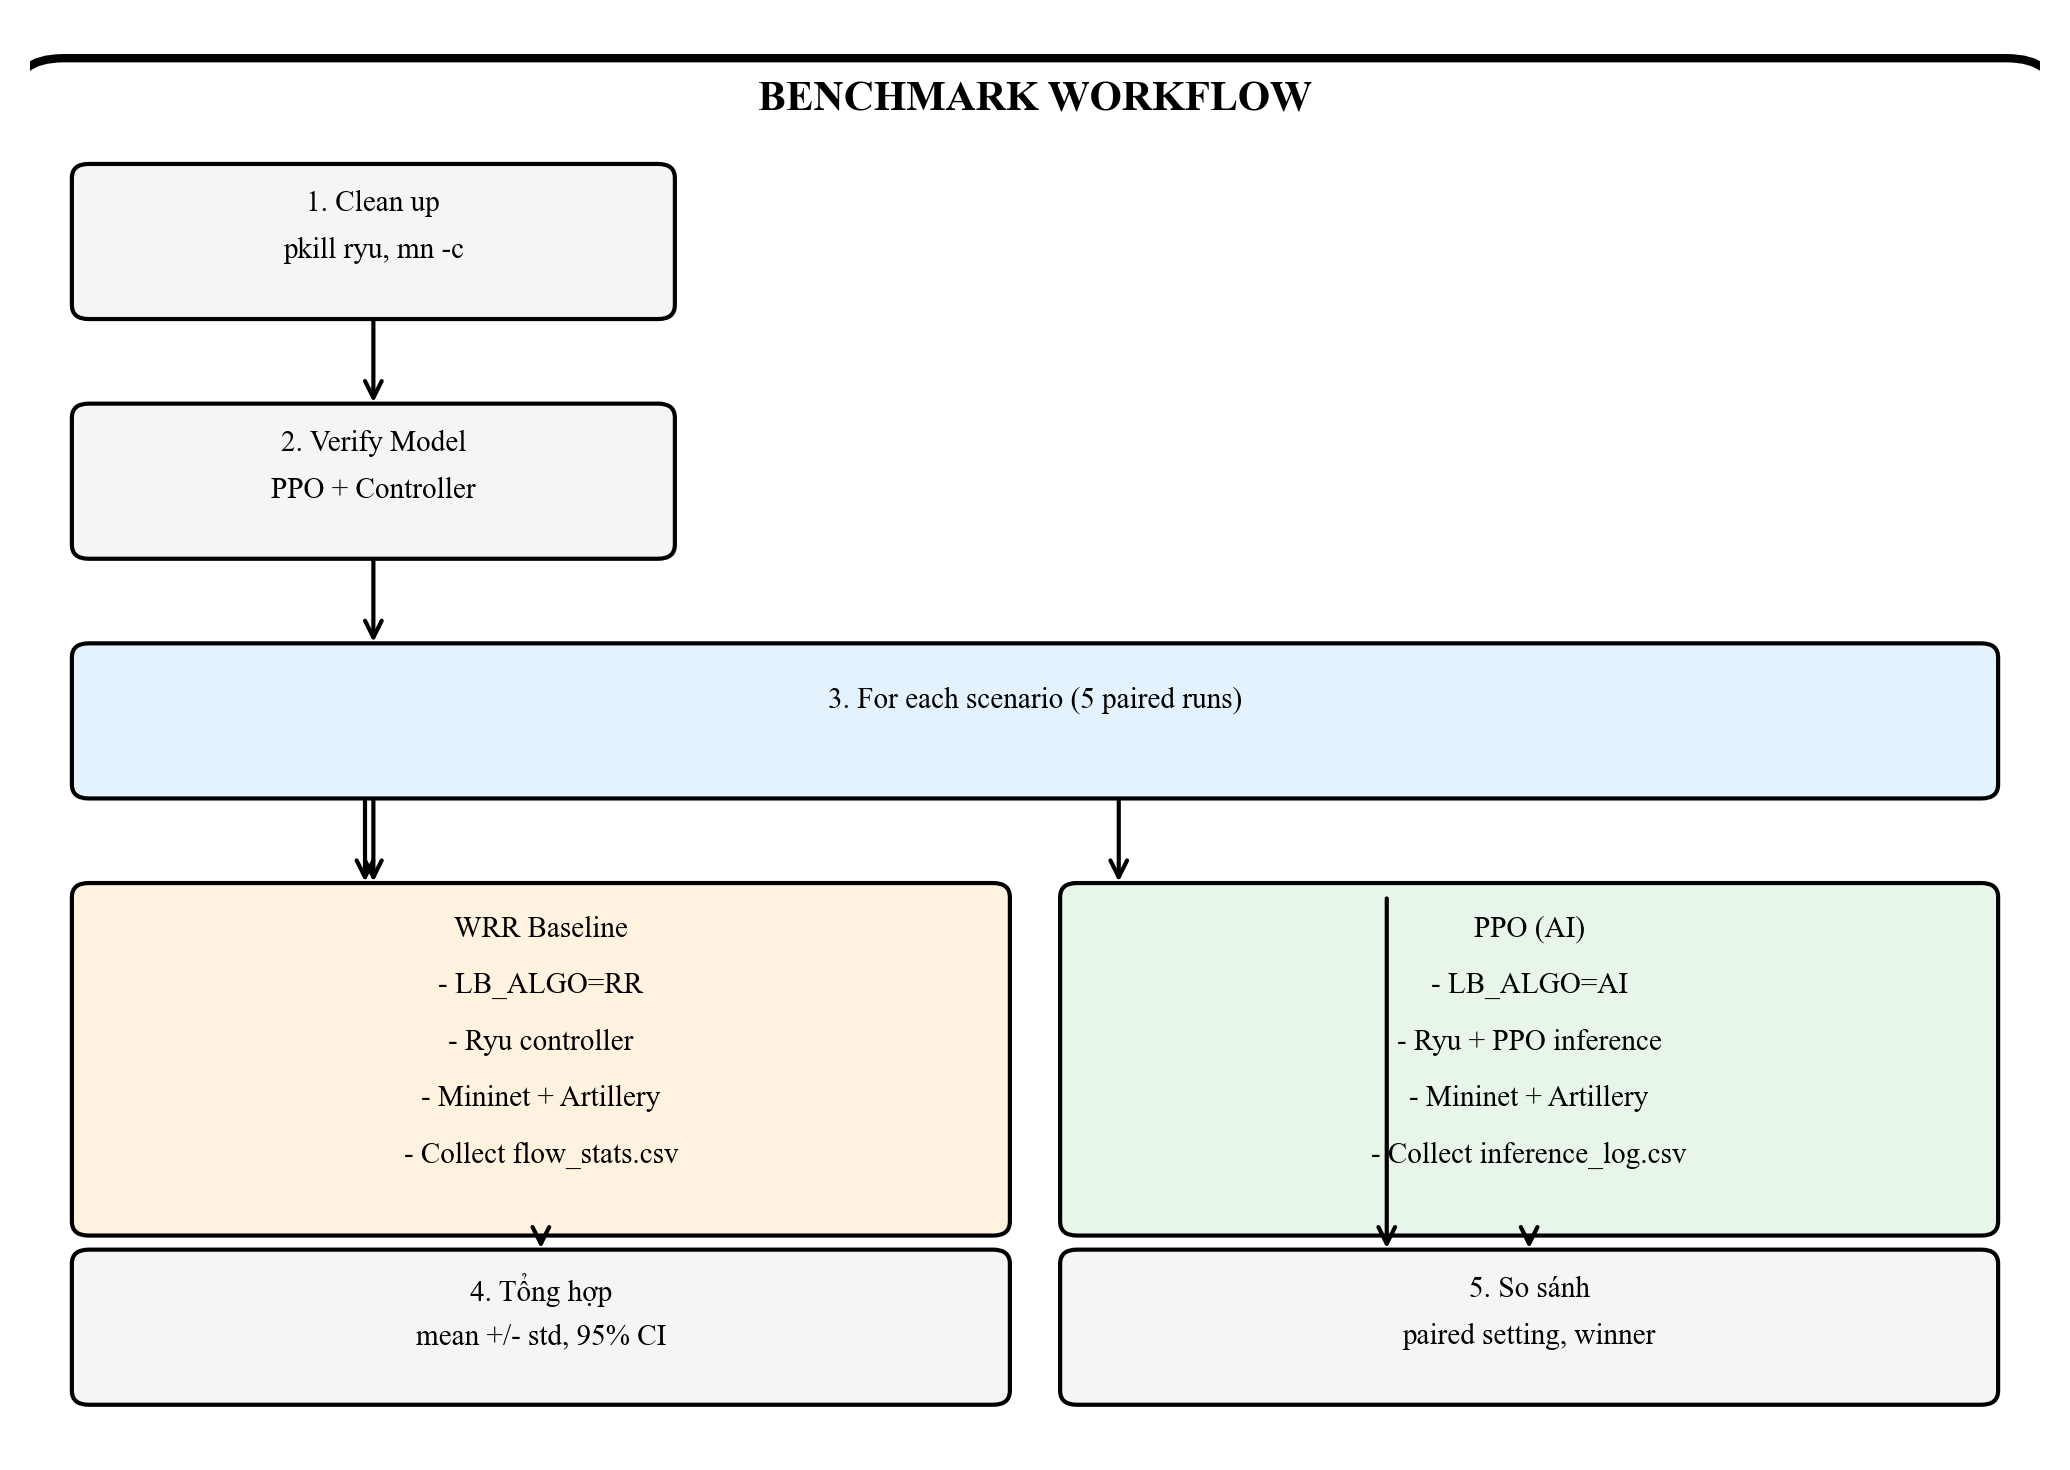
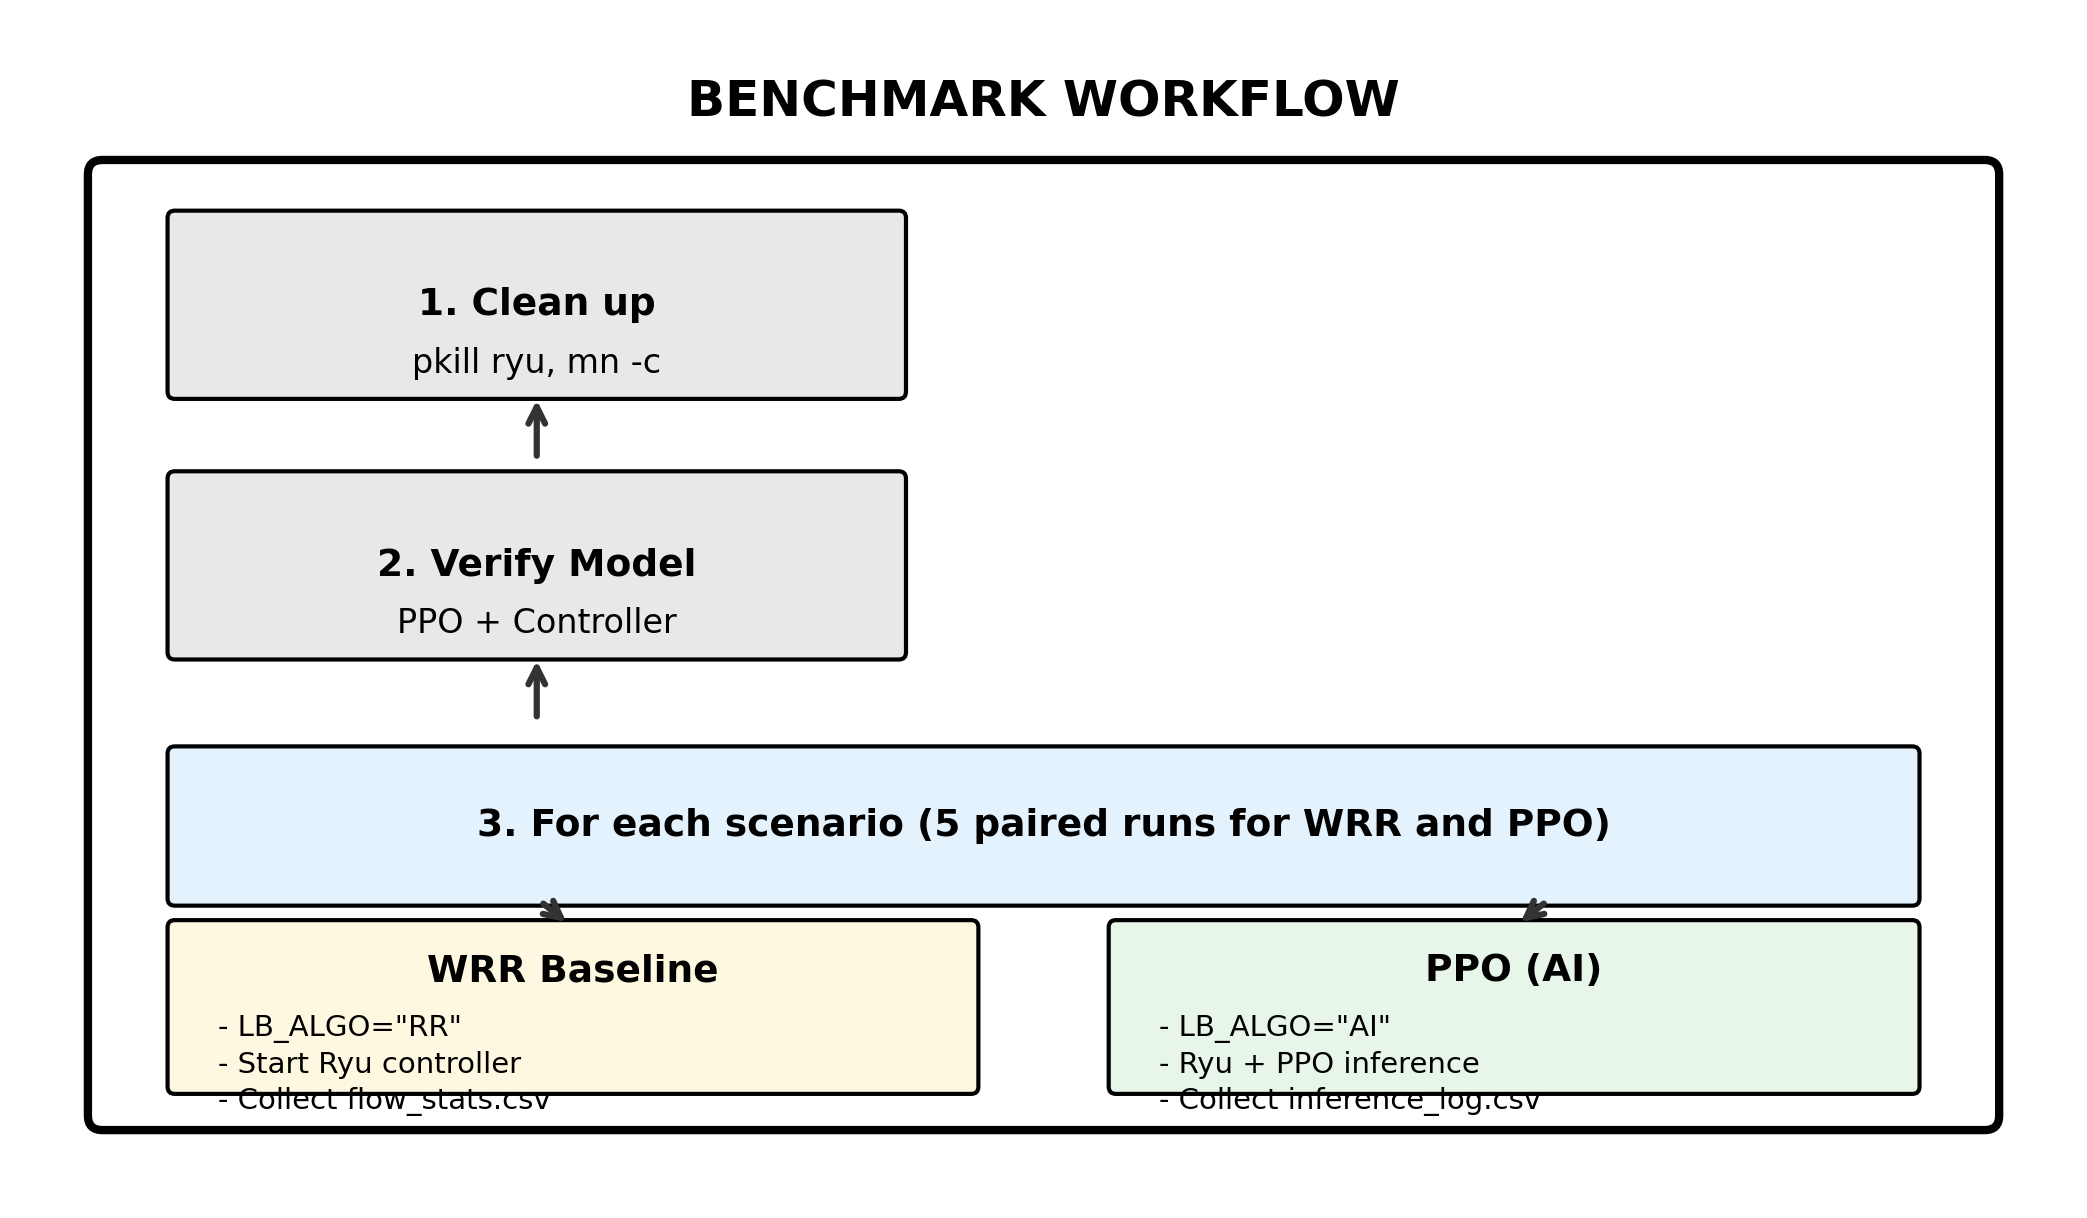
docs: v3 benchmark workflow - cleaner layout

Changed region(s): [[0.0, 0.0312, 0.9894, 0.9672]]

diff --git a/scripts/generate_benchmark_workflow.py b/scripts/generate_benchmark_workflow.py
@@ -1,5 +1,5 @@
 #!/usr/bin/env python3
-"""Generate benchmark workflow diagram in IEEE standard format - FIXED VERSION."""
+"""Generate benchmark workflow diagram - v3 - clean layout."""
 
 import matplotlib
 matplotlib.use('Agg')
@@ -8,104 +8,90 @@ import matplotlib.patches as mpatches
 from matplotlib.font_manager import FontProperties
 
 DPI = 300
-FONT = FontProperties(family='Times New Roman', size=7)
-
-def setup_figure(width, height):
-    fig = plt.figure(figsize=(width, height), dpi=DPI)
-    ax = fig.add_subplot(111)
-    ax.set_xlim(0, 12)
-    ax.set_ylim(0, 10)
-    ax.axis('off')
-    return fig, ax
-
-def draw_box(ax, x, y, w, h, lines, bg_color='#f5f5f5', fontsize=7):
-    """Draw a box with lines of text - vertically distributed."""
-    box = mpatches.FancyBboxPatch(
-        (x, y), w, h,
-        boxstyle="round,pad=0.05,rounding_size=0.1",
-        facecolor=bg_color, edgecolor='black', linewidth=1.0
-    )
-    ax.add_patch(box)
-    
-    line_height = h / (len(lines) + 1)
-    for i, line in enumerate(lines):
-        text_y = y + h - (i + 0.7) * line_height
-        ax.text(x + w/2, text_y, line, ha='center', va='center',
-                fontproperties=FONT, fontsize=fontsize, color='black')
-
-def draw_arrow(ax, x1, y1, x2, y2):
-    ax.annotate('', xy=(x2, y2), xytext=(x1, y1),
-                arrowprops=dict(arrowstyle='->', color='black', lw=1.0))
+FONT_NAME = 'DejaVu Sans'
 
 def main():
     output_dir = 'docs/figures'
     
-    # Double column width for better fit
-    fig, ax = setup_figure(7.0, 5.0)
+    # Figure size: 7 inches wide, 4 inches tall
+    fig, ax = plt.subplots(figsize=(7, 4), dpi=DPI)
+    ax.set_xlim(0, 14)
+    ax.set_ylim(0, 8)
+    ax.axis('off')
+    ax.set_aspect('equal')
+    
+    # Colors
+    C_BG = '#f8f8f8'
+    C_STEP = '#e8e8e8'
+    C_WRR = '#fff8e1'
+    C_PPO = '#e8f5e9'
+    C_ARROW = '#333333'
     
     # Title
-    ax.text(6, 9.5, "BENCHMARK WORKFLOW", ha='center', va='center',
-            fontproperties=FONT, fontsize=10, fontweight='bold', color='black')
-    
-    # Step 1: Clean up
-    draw_box(ax, 0.3, 8.0, 3.5, 1.0, ["1. Clean up", "pkill ryu, mn -c"])
-    draw_arrow(ax, 2.05, 8.0, 2.05, 7.3)
-    
-    # Step 2: Verify
-    draw_box(ax, 0.3, 6.3, 3.5, 1.0, ["2. Verify Model", "PPO + Controller"])
-    draw_arrow(ax, 2.05, 6.3, 2.05, 5.6)
-    
-    # Step 3: For each scenario
-    draw_box(ax, 0.3, 4.6, 11.4, 1.0, ["3. For each scenario (5 paired runs)"], bg_color='#e3f2fd')
-    draw_arrow(ax, 2.05, 4.6, 2.05, 3.9)
-    
-    # WRR and PPO boxes side by side
-    # WRR box
-    wrr_items = [
-        "WRR Baseline",
-        "- LB_ALGO=RR",
-        "- Ryu controller",
-        "- Mininet + Artillery",
-        "- Collect flow_stats.csv"
-    ]
-    draw_box(ax, 0.3, 1.5, 5.5, 2.4, wrr_items, bg_color='#fff3e0')
-    
-    # PPO box
-    ppo_items = [
-        "PPO (AI)",
-        "- LB_ALGO=AI",
-        "- Ryu + PPO inference",
-        "- Mininet + Artillery",
-        "- Collect inference_log.csv"
-    ]
-    draw_box(ax, 6.2, 1.5, 5.5, 2.4, ppo_items, bg_color='#e8f5e9')
-    
-    # Arrows from Step 3 to WRR/PPO
-    draw_arrow(ax, 2.0, 4.6, 2.0, 3.9)
-    draw_arrow(ax, 6.5, 4.6, 6.5, 3.9)
-    
-    # Step 4: Summary
-    draw_box(ax, 0.3, 0.3, 5.5, 1.0, ["4. Tổng hợp", "mean +/- std, 95% CI"])
-    draw_arrow(ax, 8.1, 3.9, 8.1, 1.3)
-    
-    # Step 5: Compare
-    draw_box(ax, 6.2, 0.3, 5.5, 1.0, ["5. So sánh", "paired setting, winner"])
-    
-    # Connecting arrows
-    draw_arrow(ax, 3.05, 1.5, 3.05, 1.3)
-    draw_arrow(ax, 8.95, 1.5, 8.95, 1.3)
+    ax.text(7, 7.5, 'BENCHMARK WORKFLOW', ha='center', va='center',
+            fontsize=12, fontweight='bold', fontfamily=FONT_NAME)
     
     # Main container
-    container = mpatches.FancyBboxPatch(
-        (0.1, 0.1), 11.8, 9.5,
-        boxstyle="round,pad=0.2,rounding_size=0.3",
-        facecolor='none', edgecolor='black', linewidth=2.0
-    )
+    container = mpatches.FancyBboxPatch((0.5, 0.5), 13, 6.5,
+        boxstyle="round,pad=0.1", facecolor='none', edgecolor='black', linewidth=2)
     ax.add_patch(container)
     
-    plt.tight_layout()
+    # Step 1 - Clean up (top left)
+    box1 = mpatches.FancyBboxPatch((1, 5.5), 5, 1.2,
+        boxstyle="round,pad=0.05", facecolor=C_STEP, edgecolor='black', linewidth=1)
+    ax.add_patch(box1)
+    ax.text(3.5, 6.1, '1. Clean up', ha='center', va='center', fontsize=9, fontweight='bold', fontfamily=FONT_NAME)
+    ax.text(3.5, 5.7, 'pkill ryu, mn -c', ha='center', va='center', fontsize=8, fontfamily=FONT_NAME)
+    
+    # Arrow 1->2
+    ax.annotate('', xy=(3.5, 5.5), xytext=(3.5, 5.0),
+                arrowprops=dict(arrowstyle='->', color=C_ARROW, lw=1.5))
+    
+    # Step 2 - Verify (below step 1)
+    box2 = mpatches.FancyBboxPatch((1, 3.7), 5, 1.2,
+        boxstyle="round,pad=0.05", facecolor=C_STEP, edgecolor='black', linewidth=1)
+    ax.add_patch(box2)
+    ax.text(3.5, 4.3, '2. Verify Model', ha='center', va='center', fontsize=9, fontweight='bold', fontfamily=FONT_NAME)
+    ax.text(3.5, 3.9, 'PPO + Controller', ha='center', va='center', fontsize=8, fontfamily=FONT_NAME)
+    
+    # Arrow 2->3
+    ax.annotate('', xy=(3.5, 3.7), xytext=(3.5, 3.2),
+                arrowprops=dict(arrowstyle='->', color=C_ARROW, lw=1.5))
+    
+    # Step 3 - For each scenario (spans full width)
+    box3 = mpatches.FancyBboxPatch((1, 2.0), 12, 1.0,
+        boxstyle="round,pad=0.05", facecolor='#e3f2fd', edgecolor='black', linewidth=1)
+    ax.add_patch(box3)
+    ax.text(7, 2.5, '3. For each scenario (5 paired runs for WRR and PPO)', 
+            ha='center', va='center', fontsize=9, fontweight='bold', fontfamily=FONT_NAME)
+    
+    # WRR Box (left)
+    box_wrr = mpatches.FancyBboxPatch((1, 0.7), 5.5, 1.1,
+        boxstyle="round,pad=0.05", facecolor=C_WRR, edgecolor='black', linewidth=1)
+    ax.add_patch(box_wrr)
+    ax.text(3.75, 1.5, 'WRR Baseline', ha='center', va='center', fontsize=9, fontweight='bold', fontfamily=FONT_NAME)
+    ax.text(1.3, 1.1, '- LB_ALGO="RR"', ha='left', va='center', fontsize=7, fontfamily=FONT_NAME)
+    ax.text(1.3, 0.85, '- Start Ryu controller', ha='left', va='center', fontsize=7, fontfamily=FONT_NAME)
+    ax.text(1.3, 0.6, '- Collect flow_stats.csv', ha='left', va='center', fontsize=7, fontfamily=FONT_NAME)
+    
+    # PPO Box (right)
+    box_ppo = mpatches.FancyBboxPatch((7.5, 0.7), 5.5, 1.1,
+        boxstyle="round,pad=0.05", facecolor=C_PPO, edgecolor='black', linewidth=1)
+    ax.add_patch(box_ppo)
+    ax.text(10.25, 1.5, 'PPO (AI)', ha='center', va='center', fontsize=9, fontweight='bold', fontfamily=FONT_NAME)
+    ax.text(7.8, 1.1, '- LB_ALGO="AI"', ha='left', va='center', fontsize=7, fontfamily=FONT_NAME)
+    ax.text(7.8, 0.85, '- Ryu + PPO inference', ha='left', va='center', fontsize=7, fontfamily=FONT_NAME)
+    ax.text(7.8, 0.6, '- Collect inference_log.csv', ha='left', va='center', fontsize=7, fontfamily=FONT_NAME)
+    
+    # Arrows from Step 3 to WRR and PPO
+    ax.annotate('', xy=(3.75, 1.8), xytext=(3.5, 2.0),
+                arrowprops=dict(arrowstyle='->', color=C_ARROW, lw=1.5))
+    ax.annotate('', xy=(10.25, 1.8), xytext=(10.5, 2.0),
+                arrowprops=dict(arrowstyle='->', color=C_ARROW, lw=1.5))
+    
+    plt.tight_layout(pad=0.5)
     plt.savefig(f'{output_dir}/fig11_benchmark_workflow.png',
-                bbox_inches='tight', pad_inches=0.1, dpi=DPI)
+                dpi=DPI, bbox_inches='tight', pad_inches=0.1)
     plt.close()
     print(f"Saved: {output_dir}/fig11_benchmark_workflow.png")
 
